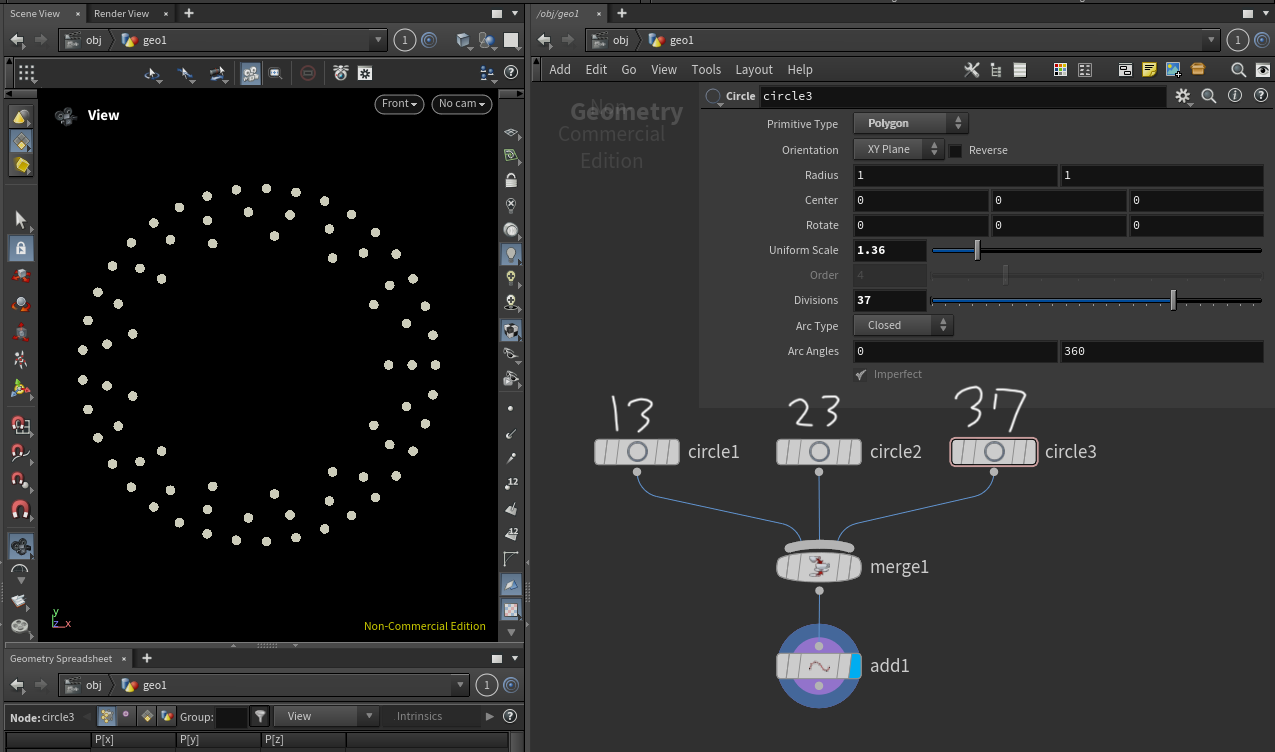
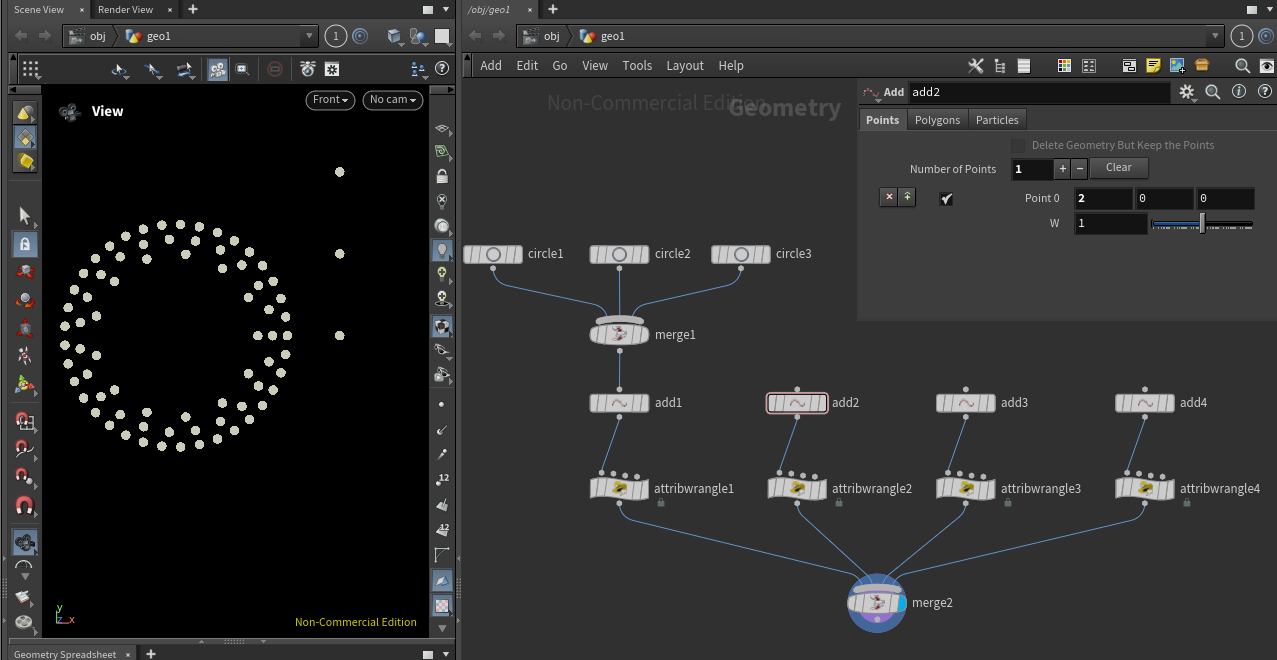
update

diff --git a/_posts/2024-02-10-Houdini-Starter-10.md b/_posts/2024-02-10-Houdini-Starter-10.md
@@ -1,6 +1,6 @@
 ---
-title: "후디니 입문 10 - 데이터 처리 : Point & if"
-excerpt: "다수의 포인트와 프리미티브 데이터를 다루는 여러가지 방법에 대해서 소개합니다."
+title: "후디니 입문 10 - Vex 함수 : Point & if"
+excerpt: "다수의 포인트와 프리미티브 데이터를 다루는 여러가지 함수들에 대해서 소개합니다."
 date: 2024-02-10 00:00:00 -0000
 categories: Houdini
 tag: Research
@@ -17,14 +17,34 @@ toc_icon: "bars"
 toc_sticky: true
 ---
 
-## 데이터 처리하기
+## 포인트(Point) 함수
 
-지금까지는 한 두개의 포인트 데이터만 다뤘다면 이번 포스트부터는 다수의 포인트와 프리미티브 데이터를 다루는 여러가지 방법에 대해서 소개합니다.
+지금까지는 한 두개의 포인트 데이터만 다뤘다면 이번 포스트부터는 다수의 포인트와 프리미티브 데이터를 다루는 여러가지 함수들에 대해서 소개합니다.
 
 ![Houdini-Starter](/assets/images/Docs/Houdini%20Starter/132.png){: .align-center}
 
+함수를 소개한 예제를 준비 할 것입니다.
 
+서클(Circle)노드와 더하기(Add) 노드를 연결한 다음 'Delete Geometry But Keep the Points' 옵션으로 포인트만 남겨서 ${13 - 23 - 37}$ 형태로 포인트를 배치합니다.
 
+또한 더하기(Add) 노드로 단일 포인트 세 개를 각각 ${(2, 0, 0) (2, 1, 0) (2, 2, 0)}$ 에 배치합니다.
+
+그리고 어트리뷰트 랭글 노드를 연결해서 위와 같이 만들어주시면 준비가 끝납니다.
+
+![Houdini-Starter](/assets/images/Docs/Houdini%20Starter/129.png){: .align-center}
+
+```hlsl
+-point("/obj/Clock/Info", 0, secondRotation, 0)
+```
+
+이전 포스트[(링크)](https://walll4542developer.github.io/houdini/Houdini-Starter-09/)에서는 포인트(Point) 함수를 파라미터(Parameter)에서 입력하는 방식을 배웠는데요, 이것은 Vex가 아니라 **hscript** 라고 부릅니다.
+
+Vex 에서의 포인트 함수와 hscript 의 포인트 함수는 문법이 다릅니다.
+
+```hlsl
+Point(,,) // Vex
+Point("주소", '포인트 인덱스', "어트리뷰트 이름", '어트리뷰트 주소'); // hscript
+```
 
 ## 레퍼런스(Reference)
 - TWA 후디니의 정석 : ([https://www.youtube.com/@TWAHOUDINI](https://www.youtube.com/@TWAHOUDINI))

diff --git a/_posts/2024-02-09-Houdini-Starter-09.md b/_posts/2024-02-09-Houdini-Starter-09.md
@@ -158,7 +158,7 @@ f@hourRotation = setHour * (totalRotation / hourDivision)
 파라미터에 로테이션 값을 전달하기 위해서 `point(,,,)`함수를 사용할 것입니다.
 
 ```hlsl
-point("주소", '포인트 인덱스', '어트리뷰트 이름', '어트리뷰트 주소');
+point("주소", '포인트 인덱스', "어트리뷰트 이름", '어트리뷰트 주소');
 ```
 
 포인트 함수에 필요한 인자는 네 가지 입니다. 구성은 위와 같습니다.
